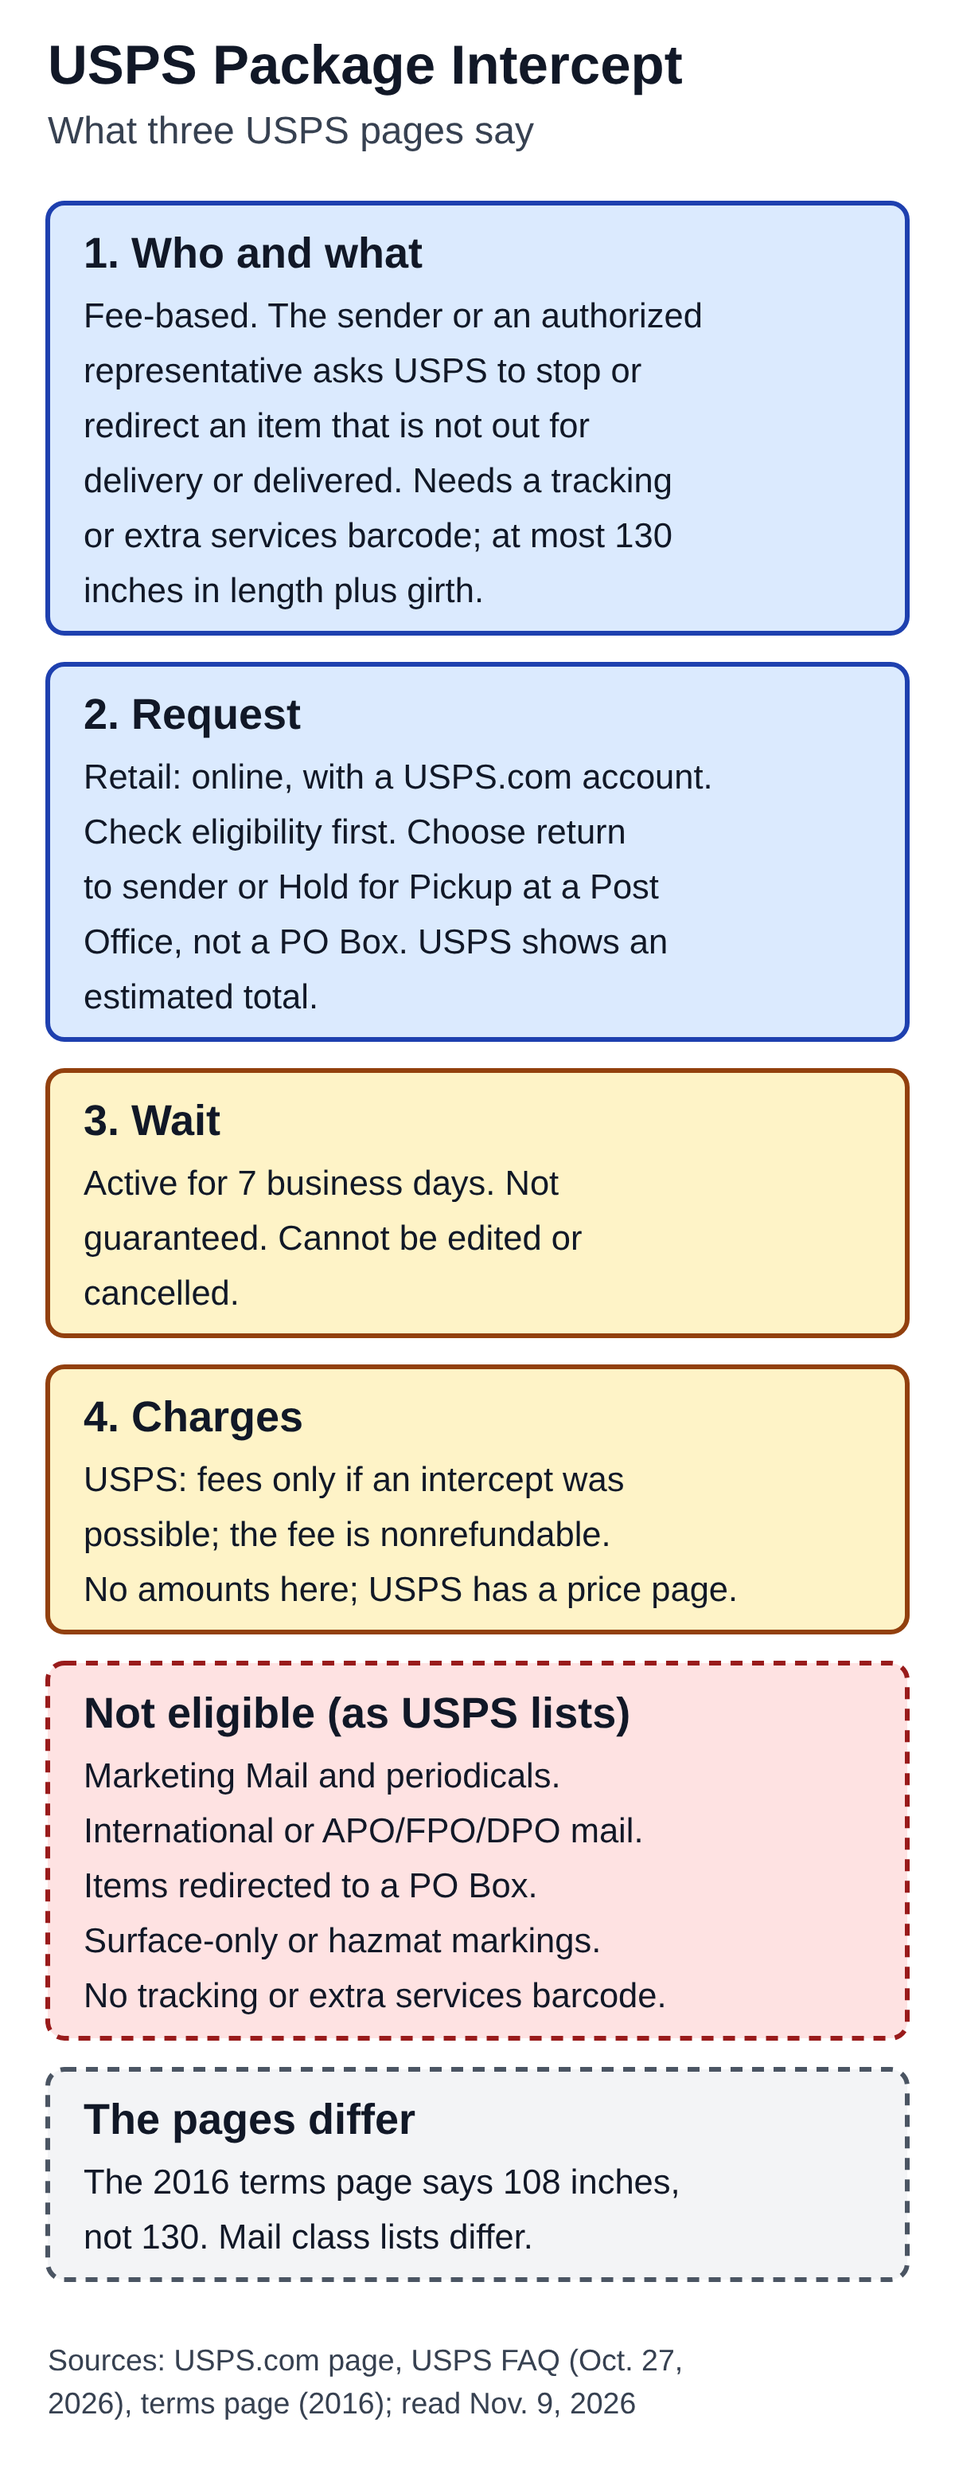
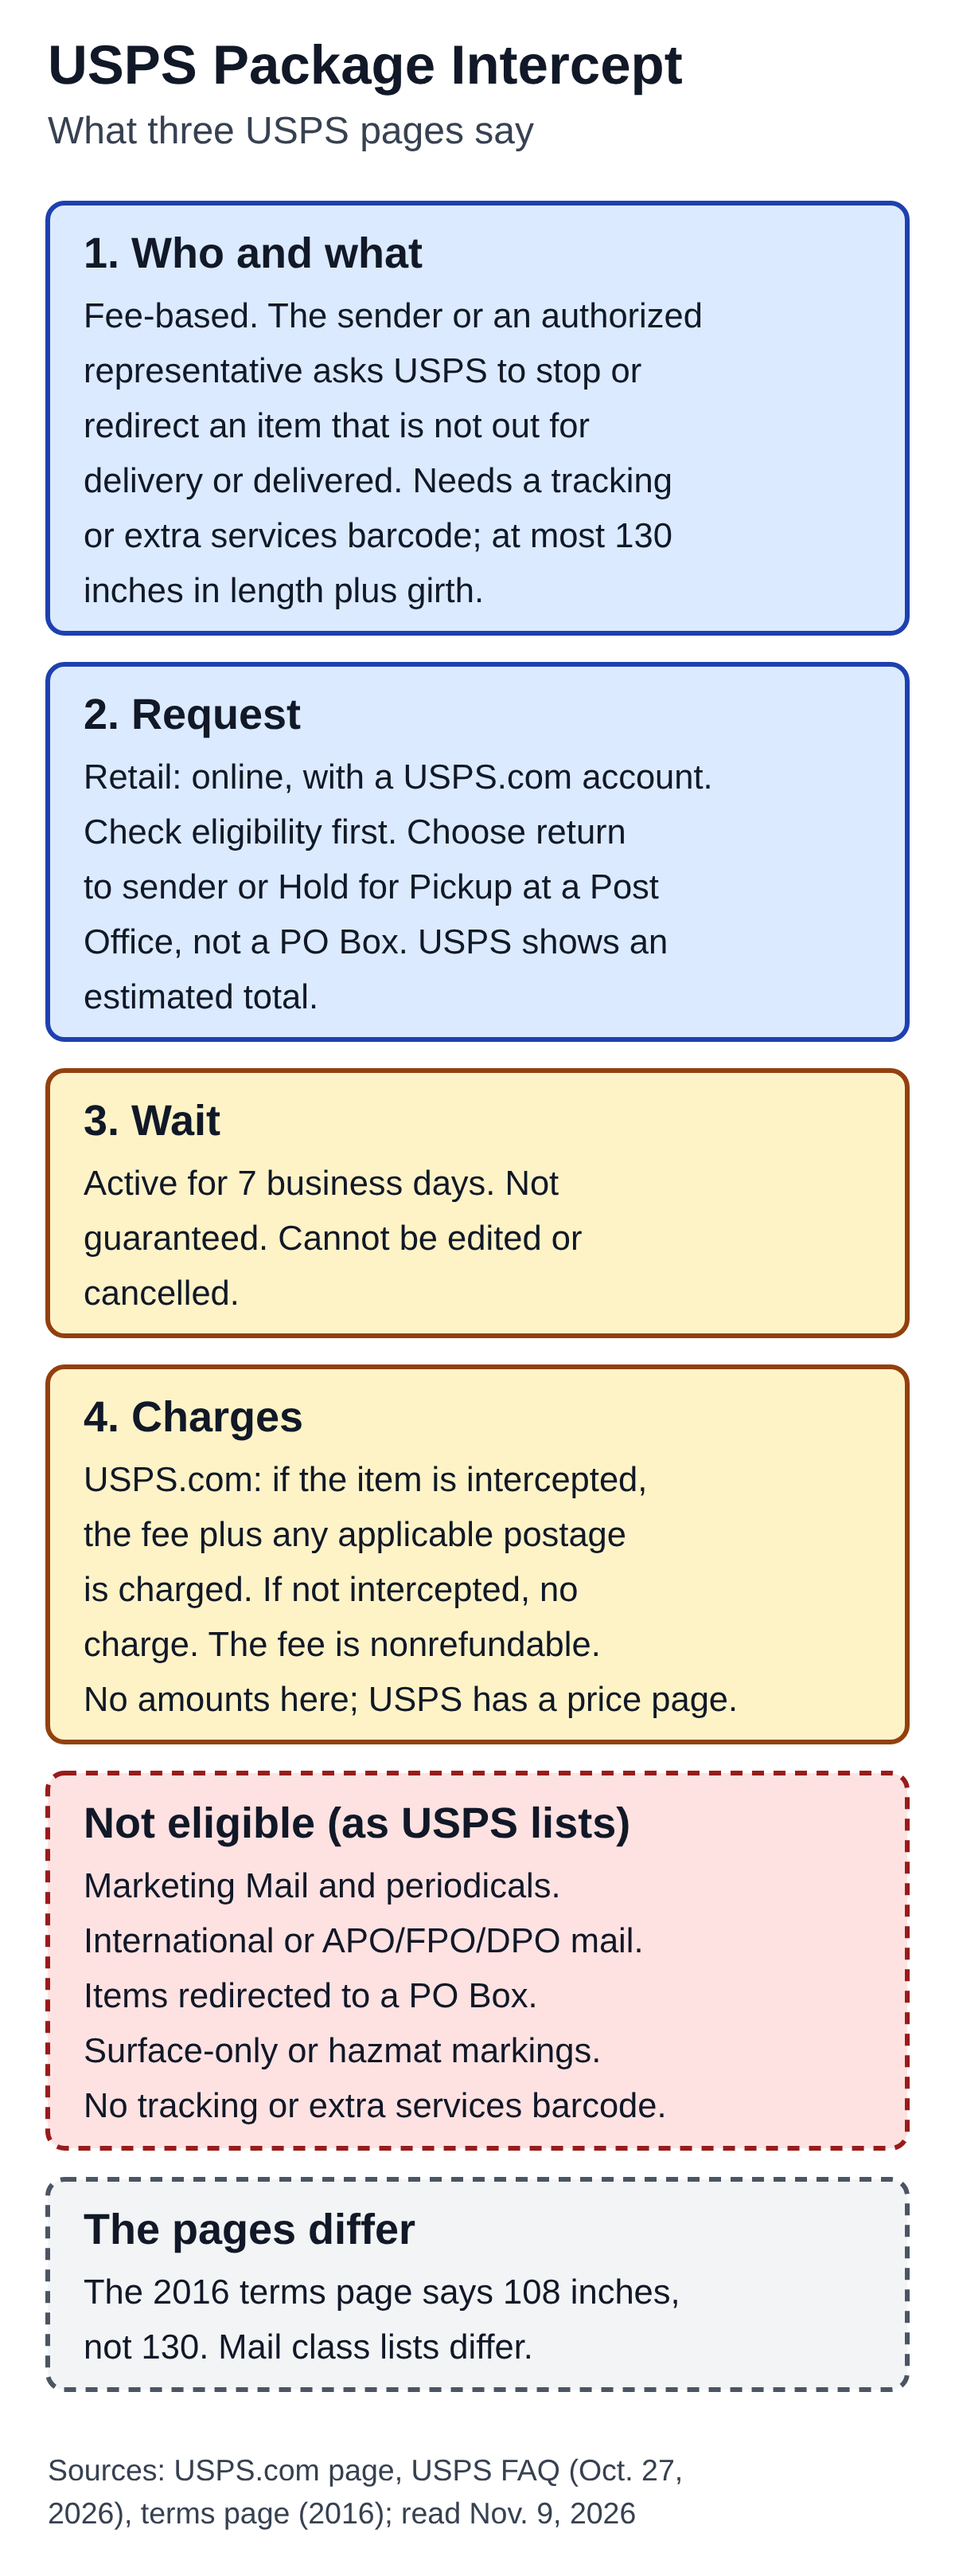
Package Intercept Gate 2 FIX: state charges as fee plus postage if intercepted
Lead, diagram card 4 and alt now say that if the shipment is intercepted the fee plus any applicable postage is charged and customers are not charged if it is not (USPS.com, re-read 2026-11-09). Changed parts compared and recorded in the QA file.

Claude-Session: https://claude.ai/code/session_01BXtGEA3Qzg6u2ejRb8jbFU

diff --git a/content/drafts/usps-package-intercept-how-it-works.md b/content/drafts/usps-package-intercept-how-it-works.md
@@ -8,16 +8,16 @@ status: draft
 date: 2026-11-09
 internal_link_candidates: none planned (decide at Gate 2; related published posts on Certified Mail, Hold Mail, mail forwarding, PO Box)
 image: assets/optimized/usps-package-intercept-how-it-works.png
-image_alt: "Diagram of what USPS says about Package Intercept, from the USPS.com page, a USPS FAQ dated Oct. 27, 2026 and an older terms page. Step 1, who and what: a fee-based service for the sender or an authorized representative, for an item that is not out for delivery or already delivered, with a tracking or extra services barcode and no more than 130 inches in length and girth. Step 2, request: retail senders request online with a USPS.com account after checking eligibility, and choose return to sender or Hold for Pickup at a Post Office; an estimated total is shown. Step 3, wait: requests are active for 7 business days, success is not guaranteed, and a request cannot be edited or cancelled. Step 4, charges: USPS says fees apply only if an intercept was possible, and the fee is nonrefundable. Not eligible, as USPS lists it: Marketing Mail and periodicals, international or APO, FPO and DPO mail, items redirected to a PO Box, surface-only or hazardous materials markings, and items without a tracking or extra services barcode. The 2016 terms page says 108 inches instead of 130. Sources read Nov. 9, 2026."
+image_alt: "Diagram of what USPS says about Package Intercept, from the USPS.com page, a USPS FAQ dated Oct. 27, 2026 and an older terms page. Step 1, who and what: a fee-based service for the sender or an authorized representative, for an item that is not out for delivery or already delivered, with a tracking or extra services barcode and no more than 130 inches in length and girth. Step 2, request: retail senders request online with a USPS.com account after checking eligibility, and choose return to sender or Hold for Pickup at a Post Office; an estimated total is shown. Step 3, wait: requests are active for 7 business days, success is not guaranteed, and a request cannot be edited or cancelled. Step 4, charges: USPS.com says that if the item is intercepted, the fee plus any applicable postage is charged, that customers are not charged if it is not intercepted, and that the fee is nonrefundable. Not eligible, as USPS lists it: Marketing Mail and periodicals, international or APO, FPO and DPO mail, items redirected to a PO Box, surface-only or hazardous materials markings, and items without a tracking or extra services barcode. The 2016 terms page says 108 inches instead of 130. Sources read Nov. 9, 2026."
 ---
 
 # How Does USPS Package Intercept Work? Eligibility and Limits
 
-**USPS Package Intercept is a fee-based service that lets the sender of an eligible item ask USPS to try to stop delivery or redirect it, as long as the item is not yet out for delivery or delivered.** USPS says it is not a guaranteed service. The request is active for 7 business days, it cannot be edited or cancelled, and USPS says you pay the fees only if an intercept was possible.
+**USPS Package Intercept is a fee-based service that lets the sender of an eligible item ask USPS to try to stop delivery or redirect it, as long as the item is not yet out for delivery or delivered.** USPS says it is not a guaranteed service. The request is active for 7 business days, it cannot be edited or cancelled, and USPS.com says that if the shipment is intercepted, the Package Intercept fee plus any applicable postage is charged, while customers are not charged if the shipment was not intercepted.
 
 This article covers what three USPS pages say: the USPS.com Package Intercept page, a USPS FAQ called "USPS Package Intercept - The Basics" (dated October 27, 2026) and a USPS Package Intercept terms page (it shows "Updated: 7/15/2016"). The wording is as of November 9, 2026. The three pages do not use the same wording on mail classes, maximum size or postage, and the article shows those differences instead of choosing one. It does not give any fee or postage amount, because USPS lists those on a separate price page, and it does not cover commercial intercept requests in detail, international mail or what to do about a lost or stolen package.
 
-![Diagram of what USPS says about Package Intercept, from the USPS.com page, a USPS FAQ dated Oct. 27, 2026 and an older terms page. Step 1, who and what: a fee-based service for the sender or an authorized representative, for an item that is not out for delivery or already delivered, with a tracking or extra services barcode and no more than 130 inches in length and girth. Step 2, request: retail senders request online with a USPS.com account after checking eligibility, and choose return to sender or Hold for Pickup at a Post Office; an estimated total is shown. Step 3, wait: requests are active for 7 business days, success is not guaranteed, and a request cannot be edited or cancelled. Step 4, charges: USPS says fees apply only if an intercept was possible, and the fee is nonrefundable. Not eligible, as USPS lists it: Marketing Mail and periodicals, international or APO, FPO and DPO mail, items redirected to a PO Box, surface-only or hazardous materials markings, and items without a tracking or extra services barcode. The 2016 terms page says 108 inches instead of 130. Sources read Nov. 9, 2026.](assets/optimized/usps-package-intercept-how-it-works.png)
+![Diagram of what USPS says about Package Intercept, from the USPS.com page, a USPS FAQ dated Oct. 27, 2026 and an older terms page. Step 1, who and what: a fee-based service for the sender or an authorized representative, for an item that is not out for delivery or already delivered, with a tracking or extra services barcode and no more than 130 inches in length and girth. Step 2, request: retail senders request online with a USPS.com account after checking eligibility, and choose return to sender or Hold for Pickup at a Post Office; an estimated total is shown. Step 3, wait: requests are active for 7 business days, success is not guaranteed, and a request cannot be edited or cancelled. Step 4, charges: USPS.com says that if the item is intercepted, the fee plus any applicable postage is charged, that customers are not charged if it is not intercepted, and that the fee is nonrefundable. Not eligible, as USPS lists it: Marketing Mail and periodicals, international or APO, FPO and DPO mail, items redirected to a PO Box, surface-only or hazardous materials markings, and items without a tracking or extra services barcode. The 2016 terms page says 108 inches instead of 130. Sources read Nov. 9, 2026.](assets/optimized/usps-package-intercept-how-it-works.png)
 
 ## Who can request it
 
@@ -53,7 +53,7 @@ The FAQ says you cannot edit or cancel a Package Intercept request.
 
 This article gives no amounts. USPS.com and the FAQ both send readers to a separate USPS price page for the Package Intercept fee.
 
-On when charges apply, the three pages say similar things. USPS.com says customers are not charged if the shipment was not intercepted and that the Package Intercept fee is non-refundable if the intercept succeeds. The FAQ says you pay all fees only if an intercept was possible, that there is no charge if the item is delivered before it can be intercepted, and that the fee applies to each mailpiece intercepted. The terms page says fees and postage are charged only upon a successful intercept.
+On when charges apply, the three pages say similar things. USPS.com says that if the shipment is intercepted, the card is charged the Package Intercept fee plus any applicable postage, and that any additional postage is charged if the actual postage is greater than the estimate. It also says customers are not charged if the shipment was not intercepted and that the fee is non-refundable if the intercept succeeds. The FAQ says you pay all fees only if an intercept was possible, that there is no charge if the item is delivered before it can be intercepted, and that the fee applies to each mailpiece intercepted. The terms page says fees and postage are charged only upon a successful intercept.
 
 The FAQ also has sentences saying that some postage and fees are charged at the time of the intercept "or otherwise" collected from the recipient or by a USPS carrier at delivery. The FAQ does not explain how those sentences fit with the lines saying there is no charge when the item is delivered first, so this article does not try to reconcile them.
 

diff --git a/editorial/qa/usps-package-intercept-how-it-works.md b/editorial/qa/usps-package-intercept-how-it-works.md
@@ -19,7 +19,7 @@ After drafting, all three pages were opened again in the built-in browser (2026-
 | # | Claim in the draft | Source | Result |
 |---|---|---|---|
 | C1 | Fee-based; the sender or authorized representative asks USPS to stop or redirect an item not out for delivery or already delivered | S1; S2 | pass |
-| C2 | Not guaranteed; request active 7 business days; cannot be edited or cancelled; fees only if an intercept was possible | S1; S2 | pass |
+| C2 | Not guaranteed; request active 7 business days; cannot be edited or cancelled; fees charged when the item is intercepted, none if it is not (USPS.com); the FAQ's "only if an intercept was possible" is kept as FAQ wording in the fees section | S1; S2 | pass (reworded at Gate 2 round 1) |
 | C3 | The pages describe requests by the sender or representative or agent, not by the recipient (absence tested) | S1; S2 | pass |
 | C4 | Retail senders: return to own address or Hold For Pickup; online only with a USPS.com account | S1 | pass |
 | C5 | Commercial senders: own address, new delivery address or Hold For Pickup via Business Customer Gateway; new address only commercial per the FAQ | S1; S2 | pass |
@@ -53,10 +53,10 @@ After drafting, all three pages were opened again in the built-in browser (2026-
 | I1 | Card 1 "Who and what": fee-based, sender or representative, not out for delivery or delivered, tracking or extra services barcode, 130 inches matches C1, C6 | pass |
 | I2 | Card 2 "Request": retail online with USPS.com account, check eligibility, return to sender or Hold for Pickup, not a PO Box, estimated total matches C4, C13, C14 | pass |
 | I3 | Card 3 "Wait": 7 business days, not guaranteed, cannot be edited or cancelled matches C2 | pass |
-| I4 | Card 4 "Charges": fees only if an intercept was possible; fee nonrefundable; no amounts matches C16, C17 | pass |
+| I4 | Card 4 "Charges": USPS.com: if the item is intercepted, the fee plus any applicable postage is charged; if not intercepted, no charge; fee nonrefundable; no amounts matches C16, C17 | pass (redrawn at Gate 2 round 1) |
 | I5 | Not-eligible card matches C11, C12 (labelled "as USPS lists"); "The pages differ" card matches C26 | pass |
-| I6 | Alt text (1,112 characters) in front matter and body is identical and says the same as the diagram | pass |
-| I7 | Files `assets/raw/usps-package-intercept-how-it-works.svg` and `assets/optimized/usps-package-intercept-how-it-works.png` (1200 x 3096, 507,653 bytes, sha256 a607d5ed...de6c) in the repository; no logos or photos; text 25 to 46 px on an 800 px canvas; no text past the right margin | pass |
+| I6 | Alt text (1,213 characters after Gate 2 round 1) in front matter and body is identical and says the same as the diagram | pass |
+| I7 | Files `assets/raw/usps-package-intercept-how-it-works.svg` and `assets/optimized/usps-package-intercept-how-it-works.png` (1200 x 3234, sha256 eadc3ce5...3fd4; Gate 1 version was 1200 x 3096, a607d5ed...de6c) in the repository; no logos or photos; text 25 to 46 px on an 800 px canvas; no text past the right margin | pass |
 
 ## Format
 
@@ -73,3 +73,21 @@ Title 60 characters; slug `usps-package-intercept-how-it-works`; meta descriptio
 ## Result and next step
 
 Gate 1: **PASS** (27 of 27 claims, 7 of 7 image checks; two fixes made during Gate 1). Next: push, Gate 2 by commit SHA. After a Gate 2 PASS: ready, WordPress draft, phone preview, re-read of all three USPS pages right before publishing, publish if unchanged, live QA and records.
+
+## Gate 2 round 1 (base `1dd0826`): FIX applied 2026-11-09
+
+**Finding (ChatGPT):** the lead, diagram and alt summarized the charges as "fees apply only if an intercept was possible", which is the FAQ's wording and is less clear than USPS's main guidance. **Fix:** say that if the shipment is intercepted, the fee plus any applicable postage is charged, and that customers are not charged if it is not intercepted.
+
+**Source re-read (USPS.com page, 2026-11-09, after the finding):** "If the shipment is intercepted, your credit card will be charged the [amount] Package Intercept fee plus any applicable postage. If the actual postage is greater than estimated, any additional postage will be charged accordingly." and "Customers will not be charged if the shipment was not intercepted. If successfully intercepted, the non-refundable Package Intercept fee is applied to each intercept request." The amount on the page is not used. The terms page says fees and postage are charged only upon a successful intercept (read at Gate 1).
+
+**Changed parts and comparison:**
+
+| Place | New wording | Matches source | Result |
+|---|---|---|---|
+| Lead paragraph | USPS.com says that if the shipment is intercepted, the Package Intercept fee plus any applicable postage is charged, while customers are not charged if the shipment was not intercepted | USPS.com page | pass |
+| Section "Fees and postage", charges paragraph | Card is charged the fee plus any applicable postage if intercepted; additional postage if actual postage is greater than the estimate; not charged if not intercepted; fee non-refundable if the intercept succeeds; FAQ and terms-page sentences unchanged and still attributed | USPS.com page; FAQ; terms page | pass |
+| Alt text (front matter and body identical) | Step 4: USPS.com says that if the item is intercepted, the fee plus any applicable postage is charged, that customers are not charged if it is not intercepted, and that the fee is nonrefundable | USPS.com page | pass |
+| Diagram card 4 | "USPS.com: if the item is intercepted, the fee plus any applicable postage is charged. If not intercepted, no charge. The fee is nonrefundable. No amounts here; USPS has a price page." | USPS.com page | pass |
+| Diagram versus body versus alt | Same meaning; no text past the right margin; PNG and SVG read back from the repository | | pass |
+
+Nothing else was changed. The unreconciled FAQ sentences about collection at delivery are still stated as a limit.

diff --git a/docs/decision-log.md b/docs/decision-log.md
@@ -1369,3 +1369,7 @@ Under the standing rule: Gate 2 round 3 PASS on `e30cc5d`; moved to ready; WordP
 On the user's go-ahead (push of `0eed490` done), two new candidates were chosen from Google Trends relative indexes (vape phrase as anchor) and official-source readability: **razor** (four TSA pages; no conflict; the safety razor page's header and text differ and the article says so) and **Package Intercept** (USPS.com page, USPS FAQ dated Oct. 27, 2026 and a terms page updated 7/15/2016, which differ on mail classes, 130 vs 108 inches and postage). Both have brief, source notes, draft, diagram and Gate 1 QA (razor 17 of 17 claims, Package Intercept 27 of 27 with two fixes: the FAQ's 108-inch note and the relabel rule for Bound Printed Matter, Media Mail and Library Mail). Package Intercept gives no fee or postage amount (USPS.com shows one; not used). Backlog rows 25 and 26; draft stage count now 3 (one held). Not on WordPress; Gate 2 by commit SHA is next.
 
 **Open:** the user pushes the local commit and sends both posts to Gate 2; under the standing rule each post is then moved to ready, drafted in WordPress, previewed on a phone (razor: five-column table; Package Intercept: four-column table), its official pages re-read right before publishing, and published if nothing changed. Thanksgiving USPS notice check 2026-11-14 09:00 KST; TSA holiday food stays held.
+
+## 2026-11-09 (KST, later) — Gate 2 on `1dd0826`: razor PASS, Package Intercept FIX applied
+
+**Razor: PASS** (proceeds under the standing rule; see the publication entry once done). **Package Intercept: FIX applied.** The lead, diagram card 4 and alt now say, per the USPS.com page re-read the same day, that if the shipment is intercepted the fee plus any applicable postage is charged and customers are not charged if it is not intercepted; the FAQ's "only if an intercept was possible" stays as attributed FAQ wording in the fees section. Only the changed parts were compared and recorded in the QA file. Re-check by Gate 2 on the new SHA is next; WordPress draft and the four-column table phone check follow the PASS.
